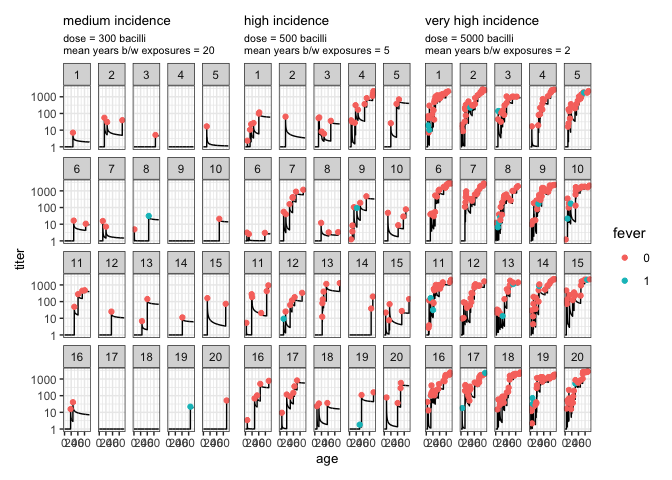
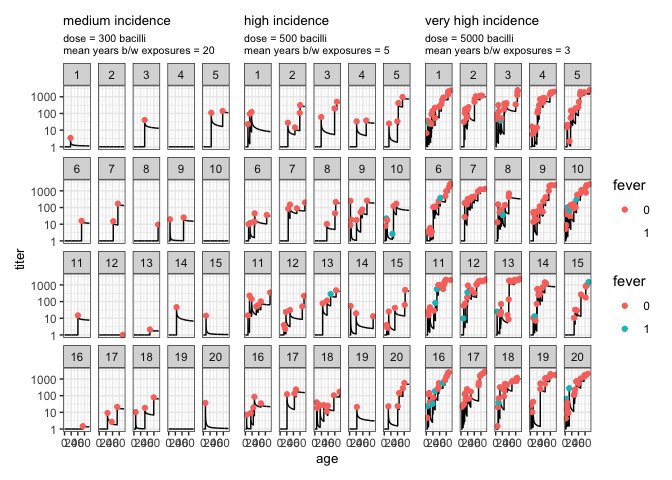
getting better fits to WHO data, with exposure by age fudge.
Next round, messing slightly with immunity

diff --git a/docs/blog/posts/cohort_incidence_model_proof_of_concept.md b/docs/blog/posts/cohort_incidence_model_proof_of_concept.md
@@ -230,22 +230,38 @@ another day.
       return(p)
     }
 
-    expand.grid(dose = 10^seq(0,9,by=0.1),
-                CoP_pre = round(10^seq(0,3.5,by=0.5)),
+    plot_dat = expand.grid(dose = 10^seq(0,9,by=0.1),
+                CoP_pre = c(50,round(10^seq(0,3.5,by=0.5))),
                 outcome=factor(c('infection_given_dose','fever_given_dose'),
                                levels=c('infection_given_dose','fever_given_dose','fever_given_infection'))) |>
       group_by(outcome,CoP_pre,dose) |>
       mutate(probability = p_outcome_given_dose(dose=dose,CoP_pre=CoP_pre,outcome = outcome)) |>
-      mutate(CoP_pre = factor(CoP_pre)) |>
-      ggplot() +
-      geom_line(aes(x=dose,y=probability,group=CoP_pre,color=CoP_pre)) +
+      mutate(CoP_pre = factor(CoP_pre))
+
+    ggplot() +
+      geom_line(data = plot_dat |> filter(CoP_pre!=50),
+                aes(x=dose,y=probability,group=CoP_pre,color=CoP_pre)) +
+      geom_line(data = plot_dat |> filter(CoP_pre==50 & outcome == 'fever_given_dose'),
+                aes(x=dose,y=probability,group=CoP_pre),color='black',linewidth=1) +
       facet_grid('~outcome') +
       theme_bw() +
       ylim(c(0,1)) +
       scale_x_continuous(trans='log10', breaks=10^seq(0,10,by=2),minor_breaks = NULL,
-                         labels = trans_format("log10", math_format(10^.x)) ) 
+                         labels = trans_format("log10", math_format(10^.x)) ) +
+      geom_text(
+        data = data.frame(
+          x = 10^2,
+          y = 0.3,
+          label = "Hornick/\nLevine",
+          outcome = factor("fever_given_dose",levels=levels(plot_dat$outcome))
+        ),
+        aes(x = x, y = y, label = label),fontface = "bold",size=3
+      ) +
+      labs(color = "anti-Vi titer\n[EU/ml]")
 
 ![](cohort_incidence_model_proof_of_concept_files/figure-markdown_strict/unnamed-chunk-5-1.png)
+
+    ggsave('scratch/figures/cohort_model_susceptibility_vs_dose_CoP_pre.png',units='in',width=5, height=3)
 
 The **protective efficacy of prior infection** (in this case, also
 vaccine efficacy more generally) is defined as the relative risk
@@ -476,8 +492,8 @@ vs. $1000/100k &lt; “very high”).
       
       # define setting ecology: exposure rate and dose
 
-        N_cohort=2e4 # a lot faster for playing
-        # N_cohort=1e6 # made huge to get good stats at lower incidence
+        # N_cohort=2e4 # a lot faster for playing
+        N_cohort=1e6 # made huge to get good stats at lower incidence
       
         # medium
         output[['medium']] = cohort_model(exposure_dose = 3e2,
@@ -491,7 +507,7 @@ vs. $1000/100k &lt; “very high”).
         
         # very high
         output[['very_high']] = cohort_model(exposure_dose = 5e3,
-                                             exposure_rate=1/(12*2), # per month
+                                             exposure_rate=1/(12*3), # per month
                                              N=N_cohort/10)
         
         save(output,N,file='scratch/output_cache.RData')
@@ -569,7 +585,7 @@ model diagnostics in action.
         theme_bw() +
         xlab('') +
         ylab('symptomatic fraction') +
-        # ylim(c(0,1)) +
+        ylim(c(0,0.16)) +
         labs(title = paste(sub('_',' ',names(output)[k]),' incidence',sep=''),
              subtitle=paste('dose = ',output[[k]]$config$exposure_dose,' bacilli\nmean years b/w exposures = ',
                             1/(12*output[[k]]$config$exposure_rate),sep='')) +
@@ -613,7 +629,9 @@ Higher doses but not significatly higher exposure rates is our
 hypothesis for the difference in fever incidence without difference in
 age distribution.
 
-    wrap_plots(p_symptomatic_fraction) + plot_layout(guides = "collect",axes='collect')
+    wrap_plots(p_symptomatic_fraction) + plot_layout(guides = "collect")
+
+    ## Warning: Removed 1 row containing missing values or values outside the scale range (`geom_bar()`).
 
 ![](cohort_incidence_model_proof_of_concept_files/figure-markdown_strict/unnamed-chunk-14-1.png)
 
